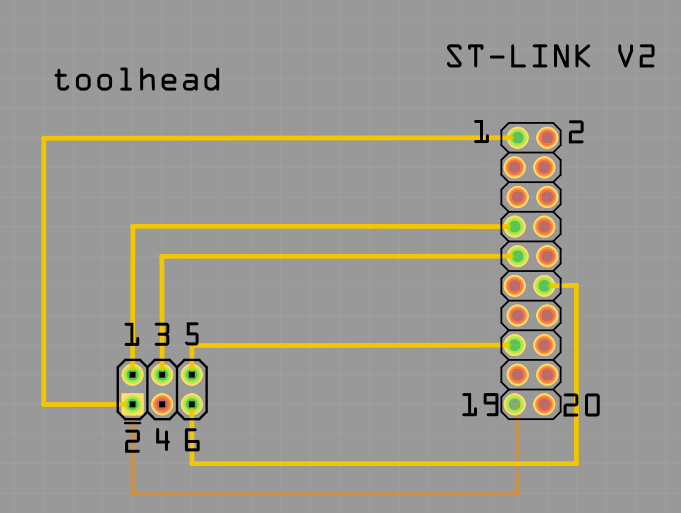
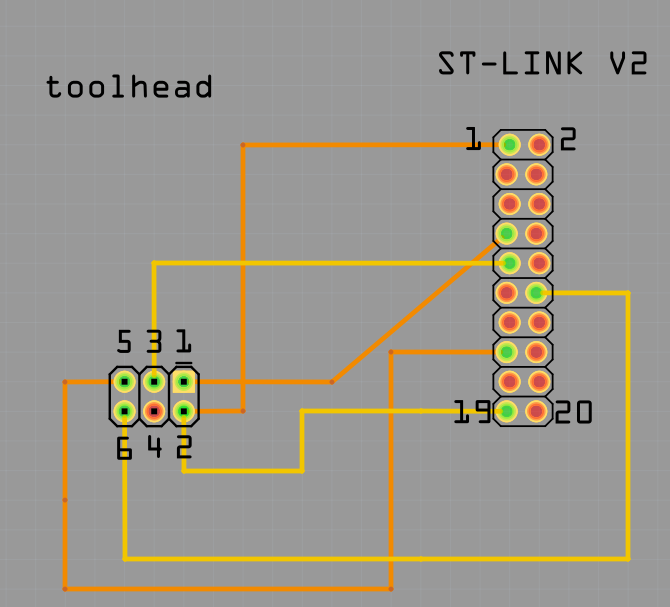
fix wiring diagram

diff --git a/README.md b/README.md
@@ -143,6 +143,20 @@ Once the header is soldered, we need to wire it to the ST-LINK:
 Use the following wiring diagram
 ![image](images/wiring-diagram.png)
 
+```
+This image courtesy @transmutated
++-------- J1 6-Pin Connector --------+            +---------- STLink V2 20-Pin Connector -----------+
+|                                    |            |                                                 |
+| Pin 1: DIO   ----------------------|------------| Pin 7: SWDIO / TMS7                             |
+| Pin 3: CLK   ----------------------|------------| Pin 9: SWCLK / TCK9                             |
+| Pin 5: RST   ----------------------|------------| Pin 15: MCU RST                                 |
+| Pin 6: GND   ----------------------|------------| Pin 12: GND                                     |
+| Pin 4: GND                         |            |                                                 |
+| Pin 2: 3V3   ----------------------|---+--------| Pin 1: VDD                                      |
+|                                    |   |        |                                                 |
+|                                    |   |--------| Pin 19: VDD                                     |
++------------------------------------+            +-------------------------------------------------+
+```
 
 ---
 ## Other References and Resources
